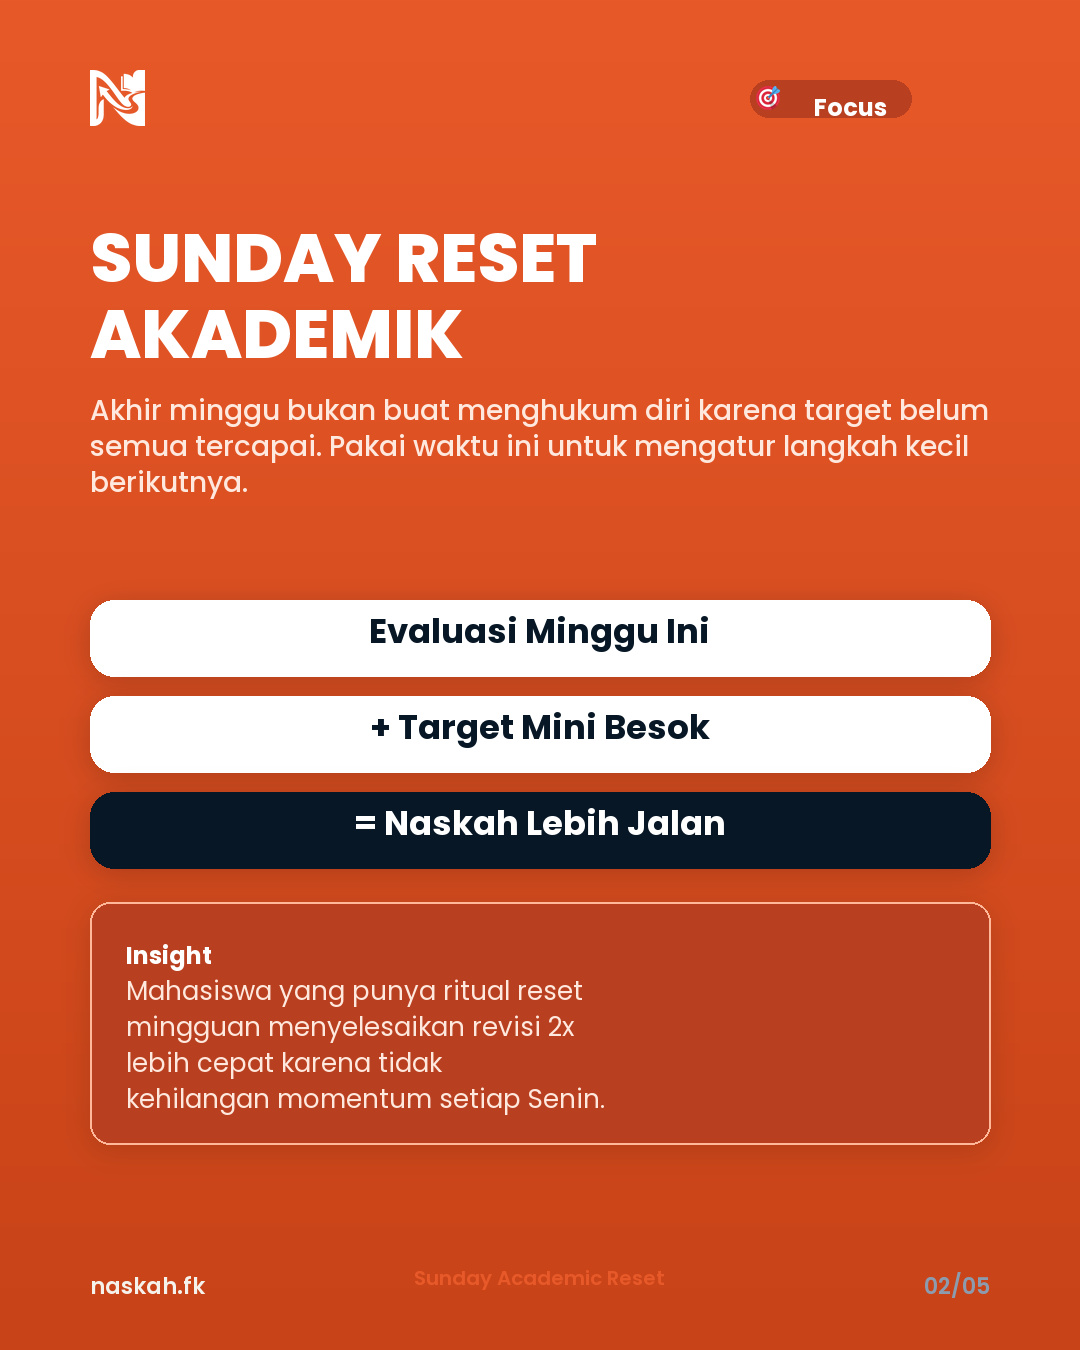
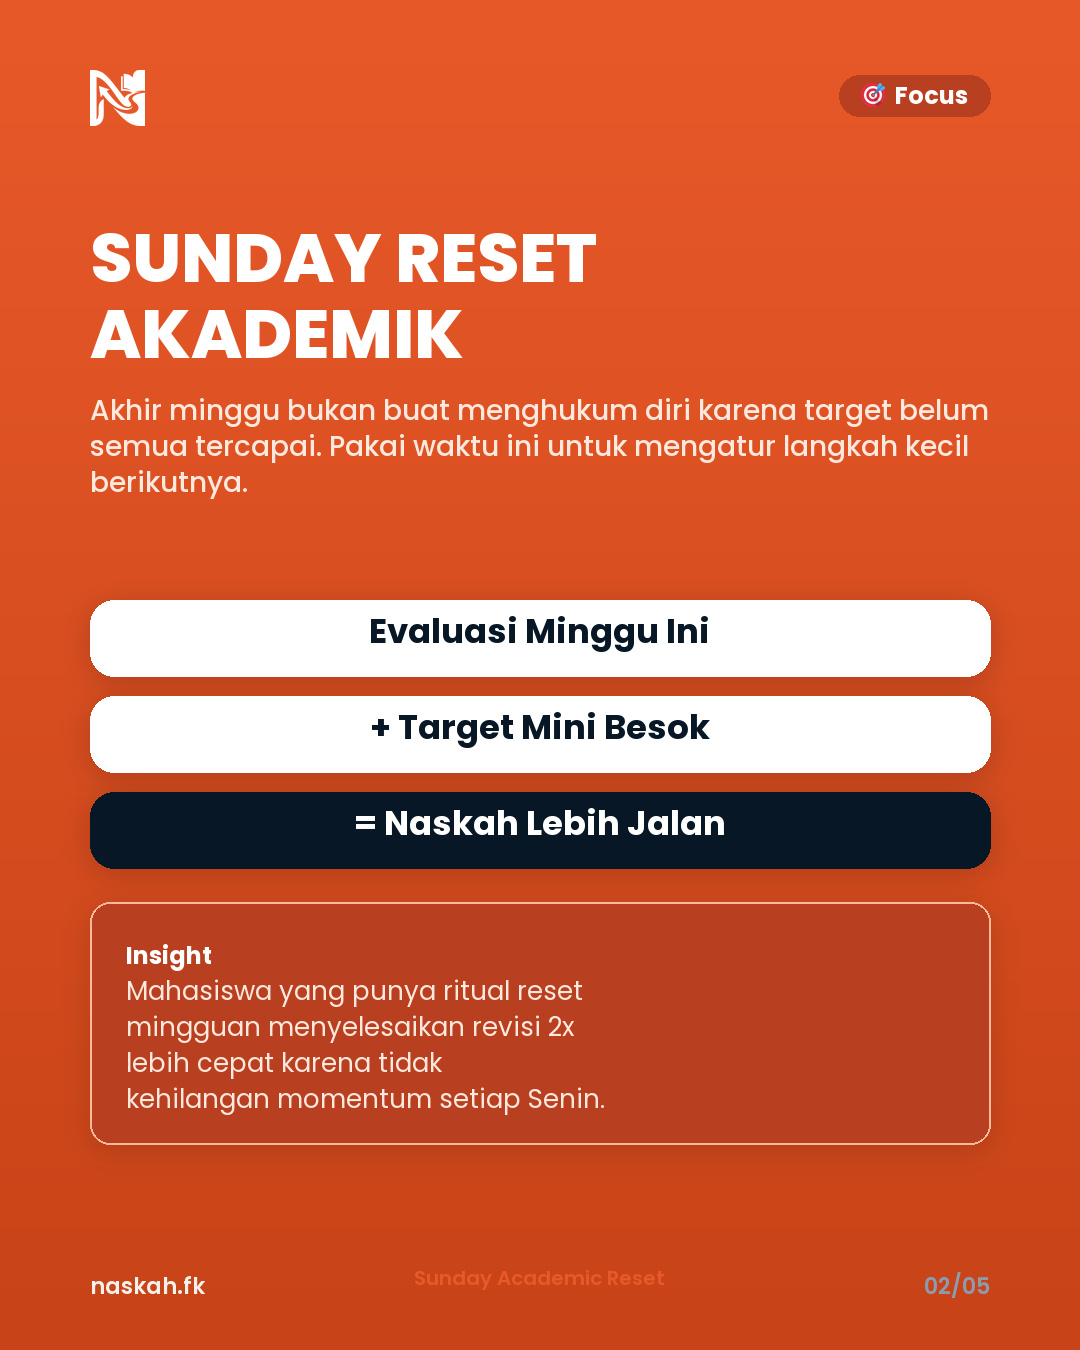
fix(design): pill badge pixel-perfect centering (anchor lm + align_right + hug-content box), badges on all 5 slides

Changed region(s): [[0.6722, 0.0311, 0.9167, 0.0933]]

diff --git a/04_GENERATORS/render_post07_rich.py b/04_GENERATORS/render_post07_rich.py
@@ -140,21 +140,48 @@ def text_height(text, f, width, spacing=8):
     return len(lines) * (f.size + spacing) - spacing
 
 
-def pill(d, xy, text, bg, fg, bold=True, pad_x=40, pad_y=16, im=None, emoji_prefix=None):
-    """Hug-content centered pill. If emoji_prefix is provided, pastes PNG emoji."""
-    x, y = xy
-    clean_text = text
+def pill(d, xy, text, bg, fg, bold=True, pad_x=26, pad_y=14, im=None, emoji_prefix=None, emoji_size=24, spacing=10, align_right=False):
+    """
+    Hug-content perfectly centered pill.
+    If align_right=True, xy=(right_edge_x, top_y), and box automatically expands to the left.
+    """
+    rx, y = xy
     f = F["pill_b"] if bold else F["pill_m"]
-    bb = d.textbbox((0, 0), clean_text, font=f)
-    tw, th = bb[2] - bb[0], bb[3] - bb[1]
-    extra_w = 40 if emoji_prefix else 0
-    box = (x, y, x + tw + pad_x * 2 + extra_w, y + th + pad_y * 2)
-    r = (th + pad_y * 2) // 2
+    bb = d.textbbox((0, 0), text, font=f)
+    tw = bb[2] - bb[0]
+    th = bb[3] - bb[1]
+
+    # Total content width inside pill
+    emoji_w = (emoji_size + spacing) if emoji_prefix else 0
+    content_w = emoji_w + tw
+    
+    # Pill box dimensions
+    pill_w = content_w + pad_x * 2
+    pill_h = th + pad_y * 2
+    
+    # If align_right, start X is (rx - pill_w)
+    x = (rx - pill_w) if align_right else rx
+    
+    box = (x, y, x + pill_w, y + pill_h)
+    r = pill_h // 2
+
+    # Draw rounded rectangle background
     d.rounded_rectangle(box, radius=r, fill=bg)
-    tx = x + pad_x + (40 if emoji_prefix else 0)
-    d.text((tx, y + pad_y), clean_text, font=f, fill=fg)
+
+    # Vertical center of the pill
+    mid_y = y + pill_h / 2
+
+    # If emoji exists, draw it centered
     if emoji_prefix and im:
-        paste_emoji(im, emoji_prefix, (x + pad_x - 6, y + pad_y + th // 2), size=24, anchor="mm")
+        emoji_center_x = x + pad_x + emoji_size / 2
+        paste_emoji(im, emoji_prefix, (emoji_center_x, mid_y), size=emoji_size, anchor="mm")
+        text_x = x + pad_x + emoji_size + spacing
+    else:
+        text_x = x + pad_x
+
+    # Draw text vertically centered beside emoji
+    d.text((text_x, mid_y), text, font=f, fill=fg, anchor="lm")
+
     return box
 
 
@@ -172,8 +199,8 @@ def slide_cover():
     d = ImageDraw.Draw(im)
     paste_logo(im)
 
-    # Badge pill top-right
-    pill(d, (W - 90 - 300, 82), "Mindset Akademik", ORANGE, WHITE)
+    # Badge pill top-right — aligned right with 90px margin, vertical center with logo
+    pill(d, (W - 90, 75), "Mindset Akademik", ORANGE, WHITE, align_right=True)
 
     # Hero — bigger, full-width
     y = 240
@@ -228,8 +255,8 @@ def slide_formula():
     gradient_v(im, ORANGE, ORANGE_DK)
     d = ImageDraw.Draw(im)
     paste_logo(im, white=True)
-    # Target pill badge top-right (in container)
-    pill(d, (W - 90 - 240, 80), "Focus", "#B84020", WHITE, bold=True, pad_x=24, pad_y=10, im=im, emoji_prefix="🎯")
+    # Target pill badge top-right — aligned right with 90px margin, center-aligned with logo
+    pill(d, (W - 90, 75), "Focus", "#B84020", WHITE, bold=True, pad_x=22, pad_y=12, im=im, emoji_prefix="🎯", align_right=True)
 
     # Title
     d.text((90, 210), "SUNDAY RESET", font=F["hero_mid"], fill=WHITE)
@@ -289,6 +316,8 @@ def slide_editorial():
     im = Image.alpha_composite(im.convert("RGBA"), blob).convert("RGB")
     d = ImageDraw.Draw(im)
     paste_logo(im, white=True)
+    # Tips pill badge top-right — aligned right with 90px margin
+    pill(d, (W - 90, 75), "Tips", NAVY_LIGHT, WHITE, bold=True, pad_x=22, pad_y=12, im=im, emoji_prefix="💡", align_right=True)
 
     # Title
     d.text((90, 190), "JANGAN NUNGGU", font=F["hero_mid"], fill=WHITE)
@@ -343,8 +372,8 @@ def slide_callout():
     gradient_v(im, CREAM_LIGHT, CREAM)
     d = ImageDraw.Draw(im)
     paste_logo(im)
-    # Moon pill badge top-right (in container)
-    pill(d, (W - 90 - 240, 80), "Malam", NAVY, WHITE, bold=True, pad_x=24, pad_y=10, im=im, emoji_prefix="🌙")
+    # Moon pill badge top-right — aligned right with 90px margin, center-aligned with logo
+    pill(d, (W - 90, 75), "Malam", NAVY, WHITE, bold=True, pad_x=22, pad_y=12, im=im, emoji_prefix="🌙", align_right=True)
 
     # Title
     d.text((90, 220), "RITUAL", font=F["hero_mid"], fill=INK)
@@ -404,6 +433,8 @@ def slide_cta():
     gradient_v(im, CREAM_LIGHT, CREAM)
     d = ImageDraw.Draw(im)
     paste_logo(im)
+    # Action pill badge top-right — aligned right with 90px margin
+    pill(d, (W - 90, 75), "Action", ORANGE, WHITE, bold=True, pad_x=22, pad_y=12, im=im, emoji_prefix="⚡", align_right=True)
 
     # Hero
     d.text((90, 220), "MINGGU DEPAN", font=F["hero_mid"], fill=INK)
